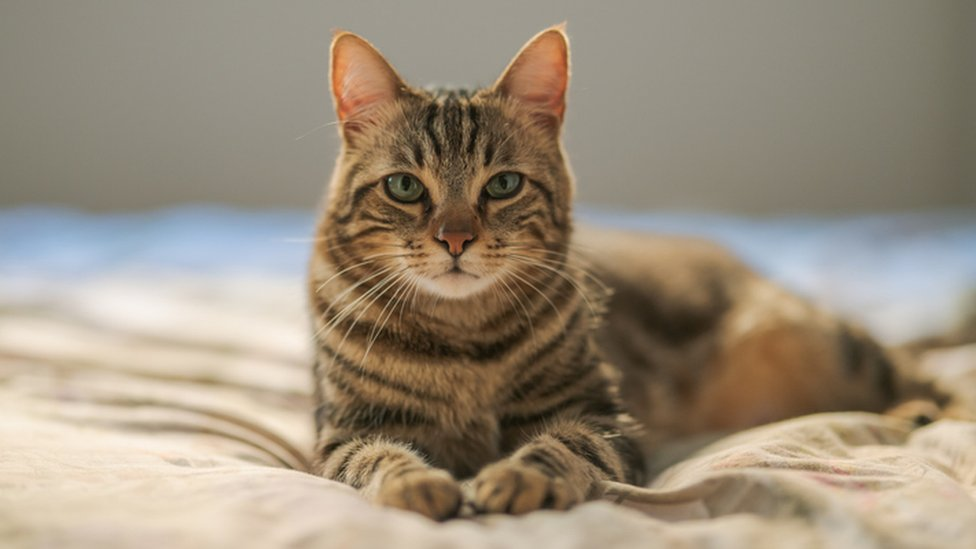
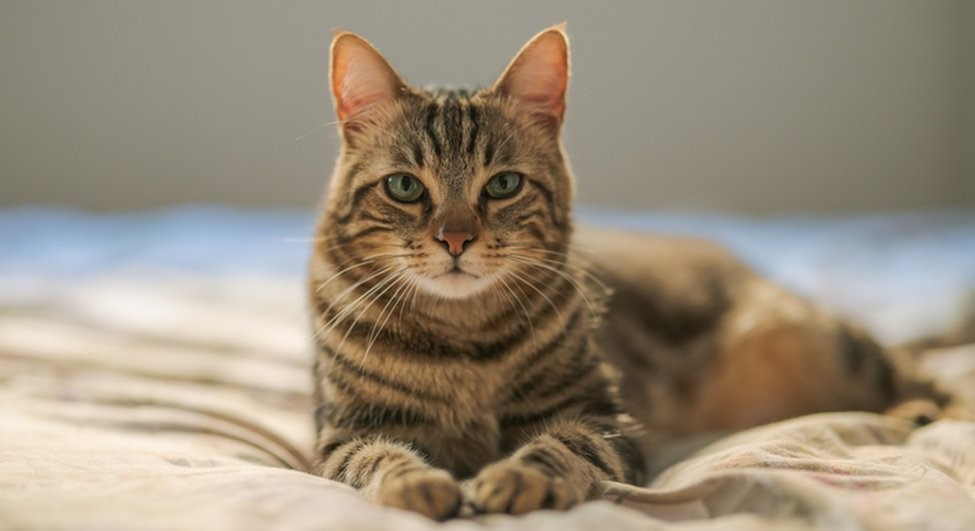
Add zoom view

diff --git a/src/Pages/Home.js b/src/Pages/Home.js
@@ -9,7 +9,6 @@ import cat from '../Resources/cat-image.jpg'
 import View from '../Components/View'
 import Button from '../Components/Button'
 import Label from '../Components/Label'
-import List from '../Components/List'
 import ZoomView from '../Components/ZoomView'
 
 class Home extends React.Component {
@@ -64,8 +63,8 @@ class Home extends React.Component {
                 <Label className='home__label'>Username: {this.state.Username}</Label>
                 <Label className='home__label'>Password: {this.state.Password}</Label>
                 <Button className='home__button' onClick={this.deleteLogin}>Delete Login Information</Button>
-                <ZoomView className='home__zoom-view'>
-                    <img className='' src={cat} alt='' />
+                <ZoomView className='home__zoom-view' width={975} height={531} scale={1}>
+                    <img className='home__image' src={cat} alt='' />
                 </ZoomView>
             </View>
         );

diff --git a/public/index.html b/public/index.html
@@ -6,7 +6,7 @@
   <link rel="icon" href="%PUBLIC_URL%/favicon.ico" />
   <meta name="apple-mobile-web-app-capable" content="yes">
   <meta name="apple-touch-fullscreen" content="yes">
-  <meta name="viewport" content="width=device-width, initial-scale=1.0, max-scale=1.0, user-scalable=no" />
+  <meta name="viewport" content="width=device-width, initial-scale=1.0, maximum-scale=1.0, user-scalable=no" />
   <meta name="theme-color" content="#696969" />
   <meta name="description" content="Web site created using create-react-app" />
   <link rel="apple-touch-icon" href="%PUBLIC_URL%/logo192.png" />

diff --git a/src/Components/ZoomView.js b/src/Components/ZoomView.js
@@ -3,11 +3,19 @@ import React from 'react';
 import './ZoomView.css'
 
 class ZoomView extends React.Component {
+
     render() {
+
+        const style = {
+            width: this.props.width * this.props.scale,
+            height: this.props.height * this.props.scale
+        }
 
         return (
             <div className={this.props.className + ' zoom-view__zoom-view'}>
-                {this.props.children}
+                <div className='zoom-view__container' style={style}>
+                    {this.props.children}
+                </div>
             </div>
         );
     }

diff --git a/src/Components/ZoomView.css b/src/Components/ZoomView.css
@@ -1,5 +1,15 @@
 .zoom-view__zoom-view {
-    touch-action: manipulation;
-    -ms-touch-action: manipulation;
     overflow: scroll;
+    touch-action: manipulation;
+
+    scrollbar-width: none;
+    -ms-overflow-style: none;
+}
+
+.zoom-view__zoom-view::-webkit-scrollbar {
+    display: none;
+}
+
+.zoom-view__container {
+    display: flex;
 }

diff --git a/src/Pages/Home.css b/src/Pages/Home.css
@@ -7,11 +7,6 @@
     align-items: stretch;
 }
 
-.home__list-item {
-    align-self: center;
-    margin: 5%;
-}
-
 .home__button {
     align-self: center;
     margin: 5%;
@@ -24,5 +19,8 @@
 
 .home__zoom-view {
     flex: auto;
-    border: 2px solid grey;
+}
+
+.home__image {
+    flex: auto;
 }
